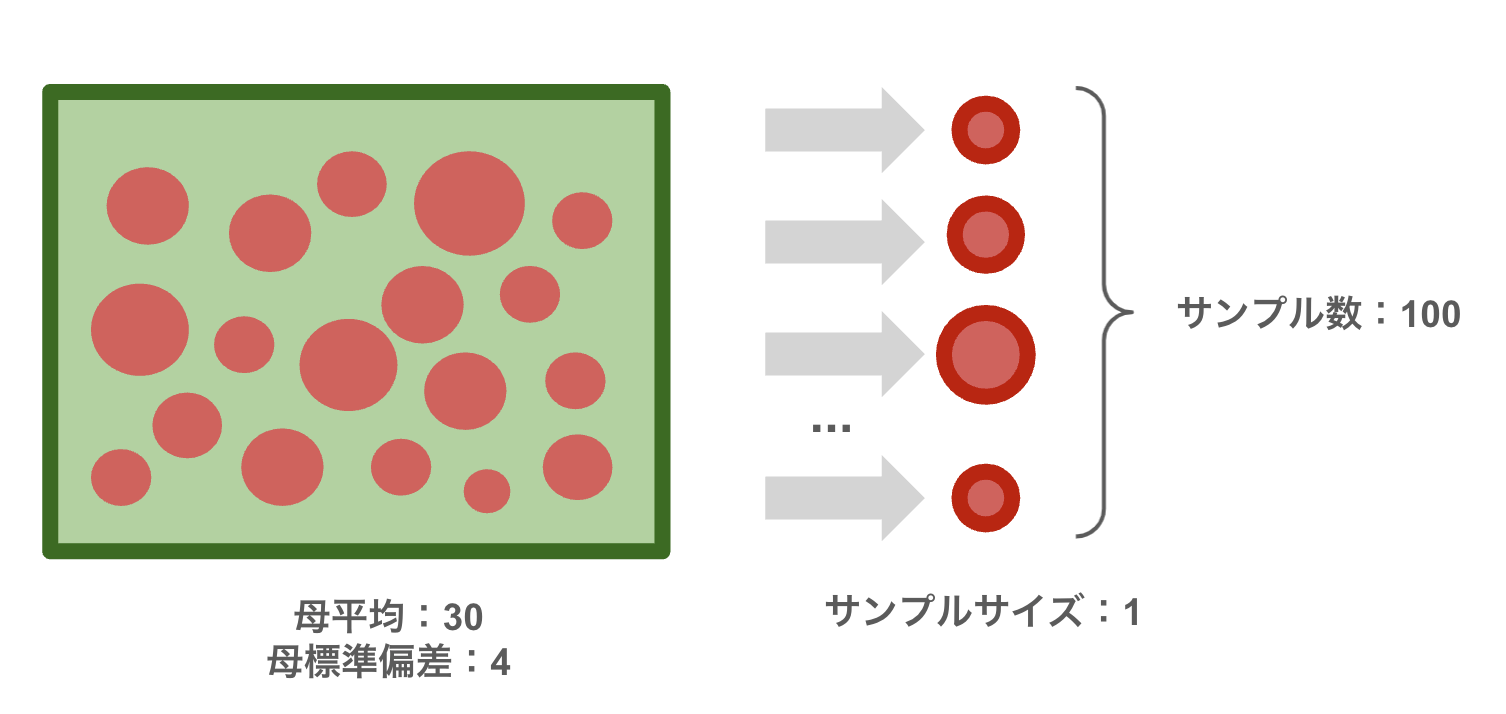
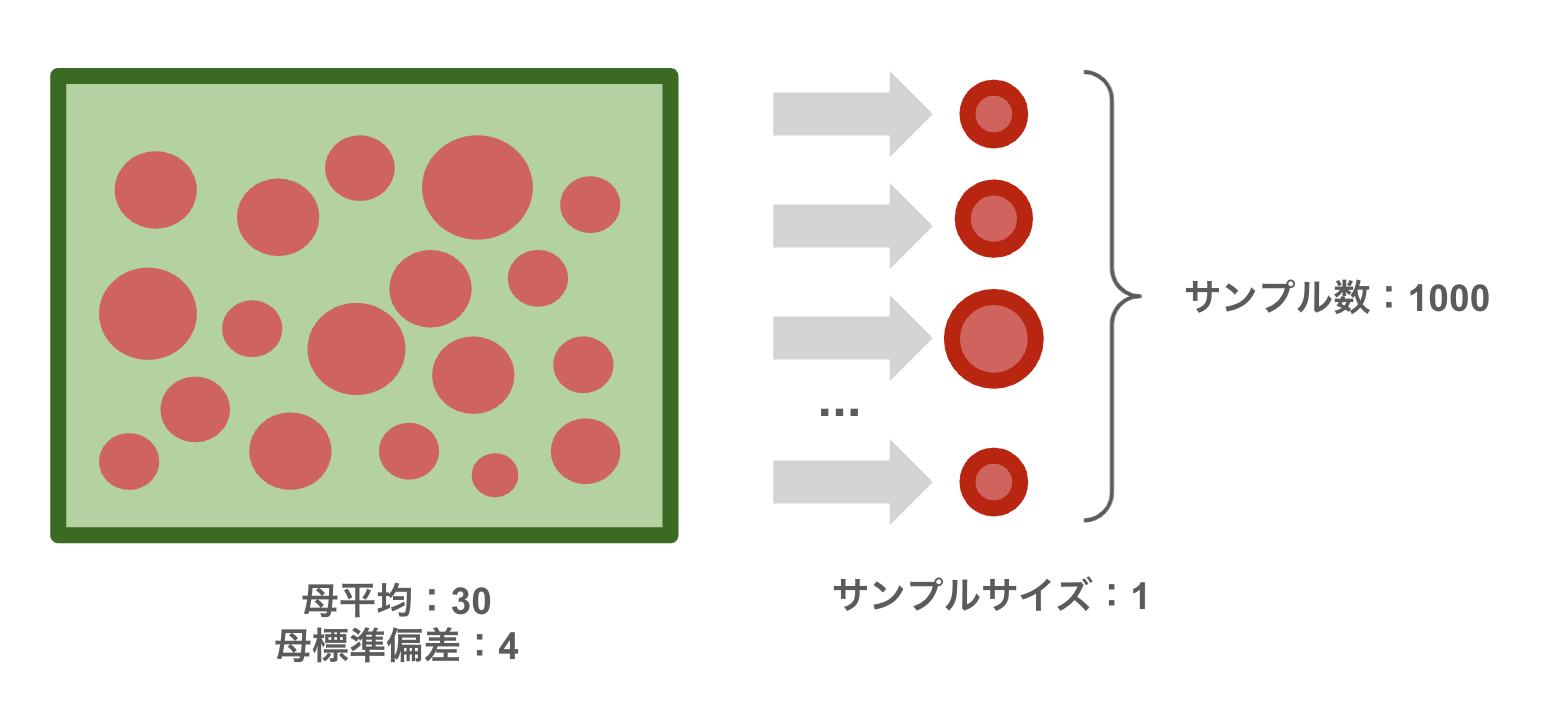
update

Changed region(s): [[0.0, 0.0924, 0.9675, 0.9552], [0.5305, 0.8011, 0.749, 0.8936], [0.749, 0.8319, 0.7802, 0.8627]]

diff --git a/117.md b/117.md
@@ -14,9 +14,9 @@
 
 ## 標本分布
 
-* 標本平均や不偏分散など、標本統計量の分布を標本平均と呼ぶ
+* 標本平均や不偏分散など、標本統計量の分布を標本分布と呼ぶ
+* 標本分布は母集団分布、標本統計量の種類、サンプルサイズによって決まる
 * 確率変数である標本のデータから計算される標本統計量も確率変数である
-* 標本分布は母数の推定に利用する
 
 > 標本分布は**標本統計量**の確率分布です。**標本に含まれる個別データの分布ではありません。**
 
@@ -58,4 +58,80 @@
 * 標準誤差が小さいほど母数推定時のばらつきが小さくなる
 * 標本誤差はSE（Standard Error）と表現される
 
-> 標準誤差の詳細については後述します。
+---
+
+## 例： ミニトマトの母集団分布と標本分布
+
+ここでは母集団分布と標本分布の関係性について見ていきます。題材としてある品種のミニトマトの大きさについて考えます。ミニトマトの大きさ（単位mm）の母集団の分布は `N(30, 16)` の正規分布に従うものとします。このミニトマトの母集団からサンプルサイズ（標本サイズ）4の標本を1000セット作成し、個々の標本から標本平均を算出して、標本平均の分布（標本分布）を確認してみることにします。
+
+<img src="img/184.png" width="600px">
+
+> 注意：ここでは母集団分布と標本分布の特性を理解するために1000セットの標本を作成しています。実際には標本を1000セットも集めることは一般的ではありません。
+
+次のプログラムを作成します。
+
+```r
+mu <- 30
+sigma <- 4
+tomato_population <- rnorm(100000, mean = mu, sd = sigma)
+tomato_sample_size <- 4 
+tomato_samples <- numeric(1000)
+for (i in 1:length(tomato_samples)) {
+  tomato_samples[i] <- mean(sample(tomato_population, tomato_sample_size))
+}
+par(mfrow = c(2, 1))
+hist(tomato_population, xlim = c(10, 50))
+hist(tomato_samples, xlim = c(10, 50))
+```
+
+変数 `mu` 、 `sigma` は母集団のパラメータである母平均と母分散を意味します。次に `tomato_population` 変数はミニトマトの母集団を表現しています。この母集団データは正規分布にしたがうものとするため `rnorm` 関数で生成します。
+
+次に `tomato_sample_size` 変数を定義して値を `4` としています。これはサンプルサイズ（標本サイズ）を意味しています。 `tomato_samples` 変数はサンプルサイズ 4 の標本を1000セット保持できるように定義しています。実際の無作為抽出は `sample` 関数を使ってサンプルサイズ 4 の標本を抽出しています。
+
+最後に `par` 関数、`hist` 関数を使って母集団分布と標本分布のヒストグラムを並べて表示します。
+
+プログラムを実行すると次のような結果を確認できるでしょう。
+
+<img src="img/180.png" width="450px">
+
+### 母集団分布と標本平均の標本分布
+
+母集団分布と標本平均の標本分布の2つを比較してみましょう。以下の2つの点に気づくでしょう。
+
+1. ヒストグラムの中心（平均）はほとんど同じ
+1. 標本平均の標本分布は母集団分布に比べてばらつきが小さい
+
+1つ目の中心が同じという点は、標本平均が母集団の母平均を推定する不偏推定量であることを意味しています。
+
+2つ目のばらつきが小さくなるのはなぜなのでしょうか。その原因を確かめるためにさきほどのプログラムのサンプルサイズ（標本サイズ）を変更して見ましょう。
+
+```r
+tomato_sample_size <- 16 
+```
+
+ここではサンプルサイズを 4 から 16 に変更しました。実際にヒストグラムを並べると次のようになります。
+
+<img src="img/181.png" width="450px">
+
+サンプルサイズを `4` から `16` に変更すると標本平均の標本分布のばらつきがさらに小さくなったことがわかります。
+
+実は正規母集団から作成した標本平均の標本分布は次のような正規分布にしたがうことが知られています。
+
+<img src="img/182.png" width="160px">
+
+図の `n` はサンプルサイズを意味します。つまり標本平均の標本分布は母集団分布と平均値は変わらないのですが、その分散はサンプルサイズ `n` が大きくなるほど小さくなるのです。
+
+また標本分布の分散の平方根である標準偏差は標準誤差（SE）と呼びます。標準誤差は以下のように表現できます。 
+
+<img src="img/183.png" width="50px">
+
+ここまでの考察についてまとめましょう。
+
+母集団データは平均：30、標準偏差：4 の正規分布にしたがっています。そのためサンプルサイズが 4 の場合、標本平均の標本分布は平均：30、標準偏差：2 の正規分布となります。
+
+同様にサンプルサイズが 16 の場合、標本平均の標本分布は平均：30、標準偏差：1 の正規分布となります。
+
+このように標本分布はサンプルサイズによって変化することがわかります。
+
+---
+

diff --git a/README.md b/README.md
@@ -39,6 +39,6 @@
     - [標本抽出](114.md)
     - [確率変数](115.md)
     - [正規分布](116.md)
-    - [母集団分と布標本分布](117.md)
+    - [母集団分と標本分布](117.md)
     - [母平均の区間推定 - 1](118.md)
     - 仮説検定
